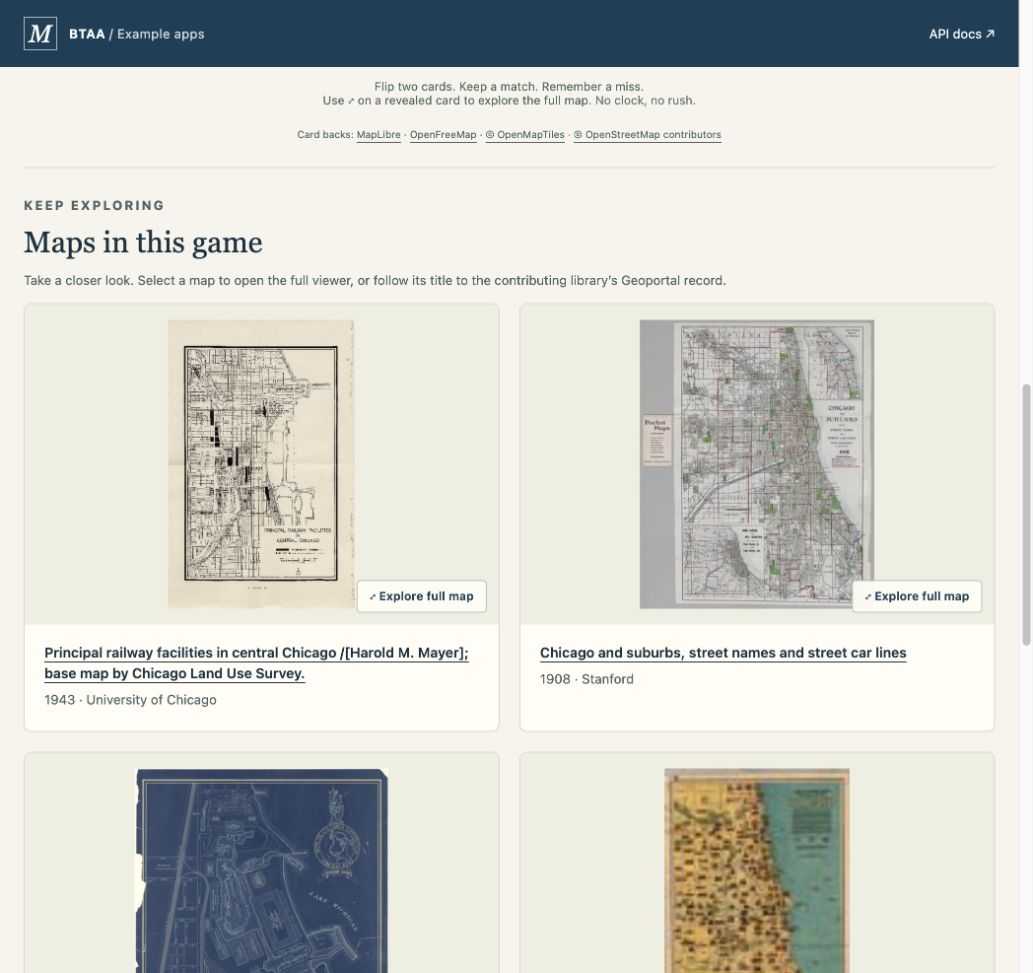
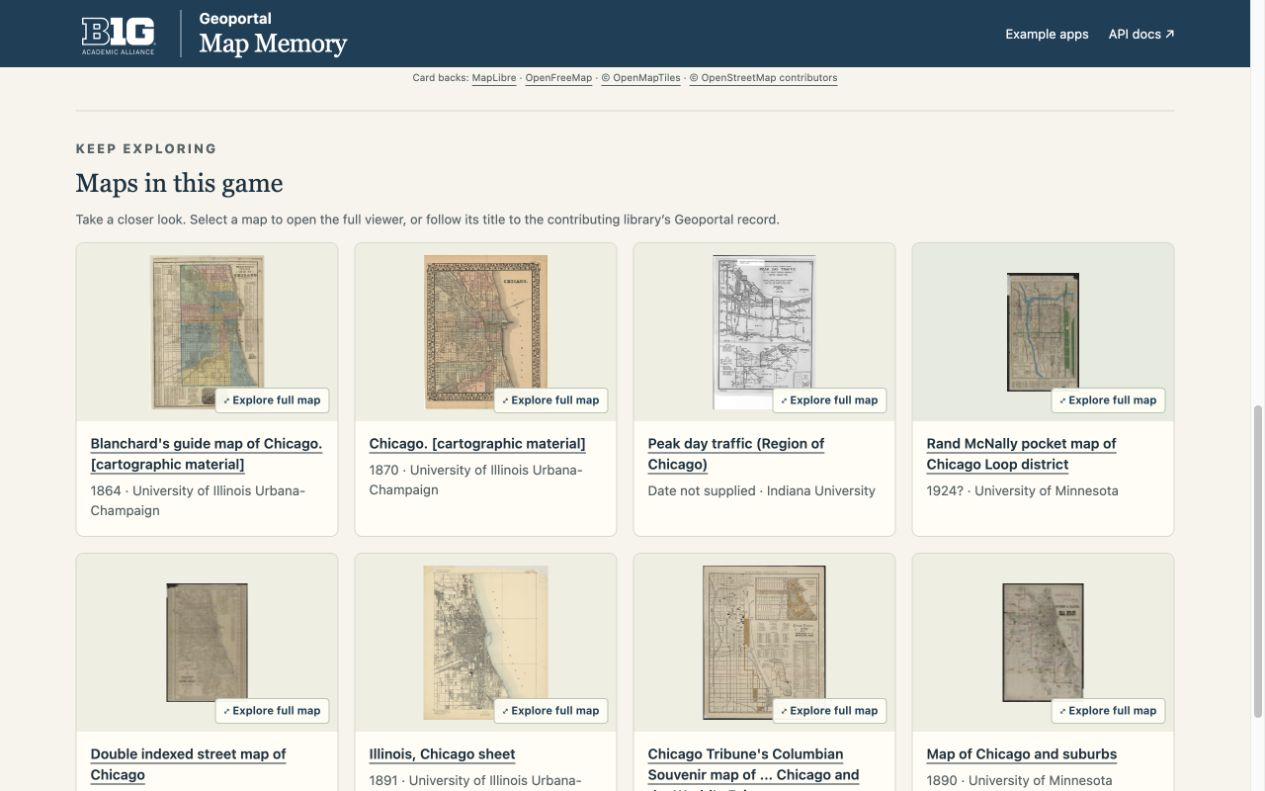
Use compact map thumbnails and add example apps navigation

diff --git a/apps/map-memory/styles.css b/apps/map-memory/styles.css
@@ -69,7 +69,10 @@ button:focus-visible,a:focus-visible,input:focus-visible {
 .app-header a {
   text-decoration:none;
 }
-.header-inner > a:last-child {
+.header-nav {
+  display:flex;
+  align-items:center;
+  gap:20px;
   white-space:nowrap;
 }
 .brand {
@@ -352,8 +355,8 @@ h2 {
   list-style:none;
   padding:0;
   display:grid;
-  grid-template-columns:1fr 1fr;
-  gap:20px;
+  grid-template-columns:repeat(auto-fit,minmax(220px,1fr));
+  gap:16px;
 }
 .collection li {
   min-width: 0;
@@ -364,10 +367,12 @@ h2 {
 }
 .collection-preview {
   position: relative;
-  display: block;
+  display: flex;
+  align-items: center;
+  justify-content: center;
   width: 100%;
-  height: clamp(260px, 31vw, 360px);
-  padding: 16px;
+  height: 180px;
+  padding: 12px;
   border: 0;
   border-radius: 0;
   background: #eeeee2;
@@ -377,23 +382,25 @@ h2 {
 }
 .collection-preview img {
   display: block;
-  width: 100%;
-  height: 100%;
+  width: auto;
+  height: auto;
+  max-width: min(100%, 200px);
+  max-height: 156px;
   object-fit: contain;
 }
 .collection-zoom {
   position: absolute;
-  bottom: 12px;
-  right: 12px;
+  bottom: 8px;
+  right: 8px;
   background: #fffef5ee;
   color: var(--blue);
   border: 1px solid #b8c4b3;
   border-radius: 4px;
-  padding: 8px 12px;
-  font-size: 12px;
+  padding: 5px 8px;
+  font-size: 11px;
 }
 .collection-detail {
-  padding: 18px 20px 22px;
+  padding: 12px 14px 16px;
 }
 .collection a {
   font-size:14px;
@@ -440,6 +447,17 @@ footer {
   }
   .header-inner {
     gap:8px;
+  }
+  .header-nav {
+    flex-direction:column;
+    align-items:flex-end;
+    gap:0;
+    font-size:11px;
+  }
+  .header-nav a {
+    display:flex;
+    align-items:center;
+    min-height:24px;
   }
   .toolbar {
     align-items:stretch;

diff --git a/apps/map-memory/index.html b/apps/map-memory/index.html
@@ -14,7 +14,7 @@
   <header class="app-header">
     <div class="header-inner page-width">
       <a class="brand" href="../../"><img class="brand-logo" src="assets/btaa-logo.png" alt="Big Ten Academic Alliance" width="651" height="383"><div class="brand-wordmark"><span class="brand-caption">Geoportal</span><h1 id="title">Map Memory</h1></div></a>
-      <a href="https://geo.btaa.org/api/docs">API docs ↗</a>
+      <nav class="header-nav" aria-label="Site navigation"><a href="../../">Example apps</a><a href="https://geo.btaa.org/api/docs">API docs ↗</a></nav>
     </div>
   </header>
   <main class="page-width">

diff --git a/apps/map-memory/README.md b/apps/map-memory/README.md
@@ -117,8 +117,8 @@ focus to the card and resumes play. Revealed cards show their titles after a 450
 hover dwell, immediately on keyboard focus, and dismiss on Escape; face-down title
 content stays empty. A win fires a local canvas confetti burst once per game, with
 cleanup on replay/city switch. Reduced motion uses the festive static completion
-panel instead. The post-game collection uses 260–360px-tall previews that open the
-same full-map lightbox; title links still lead to the Geoportal.
+panel instead. The post-game collection uses a compact grid with thumbnails capped at 200×156px
+and never enlarged beyond their natural dimensions. Previews open the same full-map lightbox; title links still lead to the Geoportal.
 
 ## Header branding
 
@@ -126,7 +126,8 @@ The header uses the official white [BTAA logo](https://geo.btaa.org/btaa-logo.pn
 from the Geoportal, bundled locally in `assets/btaa-logo.png` with its original
 transparency and aspect ratio. The logo sits to the left of “Geoportal” above
 “Map Memory”, separated by a pale vertical rule with balanced spacing;
-the lockup links back to the example-app gallery. The footer credits
+the lockup links back to the example-app gallery. Explicit “Example apps” and
+“API docs” links also appear in the top navigation. The footer credits
 the BTAA Geospatial API and links to its documentation.
 
 The title lives in the compact header so the game starts directly beneath it.
@@ -203,7 +204,7 @@ the 390px picker layout were rechecked.
 
 ![Celebratory puzzle finish](screenshots/celebration.jpg)
 
-![Large post-game map previews](screenshots/collection.jpg)
+![Compact post-game map grid](screenshots/collection.jpg)
 
 ![Picker showing only cities with playable maps](screenshots/cities.jpg)
 
